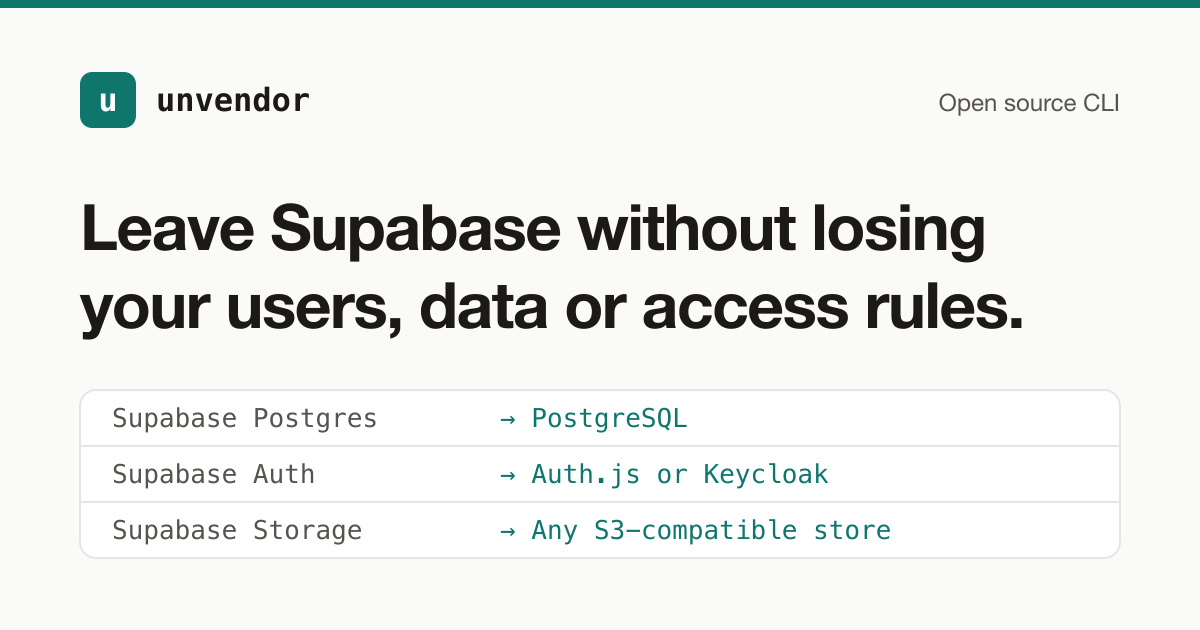
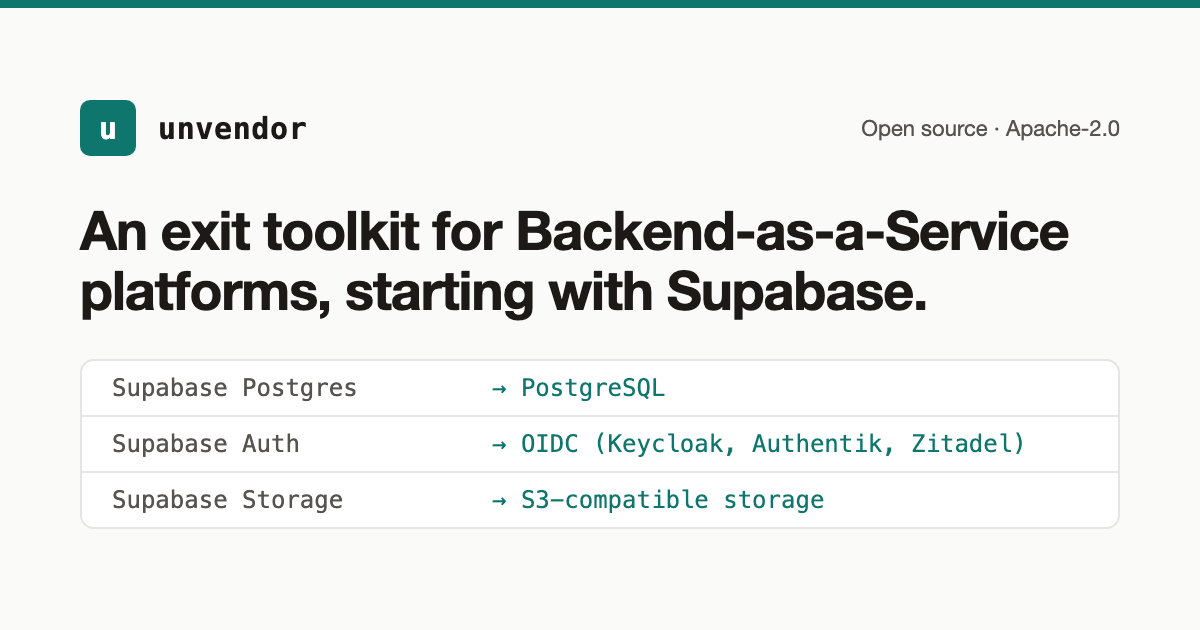
Describe Unvendor as an exit toolkit for backend platforms, starting with Supabase

diff --git a/README.md b/README.md
@@ -1,70 +1,83 @@
 # Unvendor
 
-**Leave your Backend-as-a-Service without losing your users, data or access rules.**
+**An exit toolkit for Backend-as-a-Service platforms, starting with Supabase.**
 
-Unvendor is an open source CLI that moves a [Supabase](https://supabase.com) project to:
+Unvendor is an open source toolkit for converting a Backend-as-a-Service deployment into standard, self-hostable components: plain PostgreSQL, OIDC-based auth and S3-compatible storage. The goal is to do this without a full rewrite of the app. Supabase is the first source platform and the reference implementation; others are planned through a source adapter interface.
 
-- PostgreSQL
-- Auth.js or Keycloak for auth
-- any S3-compatible store (MinIO, Garage, ...) for files
-
-> Early development, nothing works yet. See the [roadmap](#roadmap).
+> **Status: early development.** No component is usable yet. See [What it does](#what-it-does) and the [roadmap](#roadmap).
 
 ## Why
 
-Getting into Supabase is easy, getting out is not:
+Backend-as-a-Service platforms (Supabase, Firebase, Appwrite, Nhost, PocketBase) bundle database, auth, storage and functions behind platform-specific APIs. Apps built on them become hard to self-host, migrate or audit, even when parts of the platform are open source.
+
+On Supabase, for example:
 
 - RLS policies call `auth.uid()`, `auth.jwt()` and `auth.role()`, which only exist in Supabase.
-- Users live in `auth.users`, and your tables reference their IDs.
+- Users live in `auth.users`, and application tables reference their IDs.
 - Storage access rules are database policies. The object store knows nothing about them.
 
-Right now leaving means a dump, some one-off scripts and rewriting access control by hand. Unvendor turns that into something you can run and check.
+Today, leaving means a dump, one-off scripts and rewriting access control by hand. Self-hosting the platform itself changes where it runs, not what the app depends on: you still operate its services and stay on its schemas.
 
-## Why not self-host Supabase?
-
-That changes where Supabase runs, not what you depend on. You still run its services and stay on its schemas. Unvendor is for moving onto plain Postgres, your own identity provider and any S3 store, each replaceable on its own.
+Unvendor is for teams that need to run their backend on infrastructure they control: small teams, NGOs, public bodies, and anyone who needs data sovereignty, GDPR-compliant self-hosting, or protection against pricing or platform changes.
 
 ## What it does
 
-1. **Inventory:** scans the project and lists what has to move.
-2. **Auth:** moves users, identities and bcrypt hashes and keeps the user IDs, so nobody has to reset a password.
-3. **RLS:** rewrites Supabase-specific policies into plain SQL using a small shim schema. Whatever it can't convert goes into the report.
-4. **Storage:** copies buckets and objects and translates the access rules.
-5. **Verify:** compares source and target (row counts, logins, RLS checks that should be denied).
+Each component moves one part of the platform onto a standard replacement that can be swapped independently.
 
-## How it behaves
+| # | Component | Target | Status |
+|---|-----------|--------|--------|
+| 1 | Schema, data and RLS exporter | PostgreSQL | Planned |
+| 2 | Auth migration | OIDC providers (Keycloak, Authentik, Zitadel) | Planned |
+| 3 | Storage export | S3-compatible storage (MinIO, Garage, Ceph) | Planned |
+| 4 | Client compatibility shim | Existing app clients | Planned |
+| 5 | Source adapter interface | Future sources (Firebase, Appwrite, ...) | Planned |
 
-- It never writes to your Supabase project.
-- You can run it against a copy as many times as you want before the real cutover.
-- Every change it makes ends up in the report.
-- Sources are adapters, so Firebase or Appwrite can be added later.
+1. **Schema, data and RLS exporter.** Exports schema and data to plain PostgreSQL. RLS policies that use Supabase-specific functions are rewritten against a small shim schema; anything that can't be converted is listed in the report.
+2. **Auth migration.** Moves users and identities to an OIDC provider, keeping user IDs and existing password hashes where the provider supports it, so users don't have to reset their passwords.
+3. **Storage export.** Copies buckets and objects to any S3-compatible backend and translates the access rules.
+4. **Client compatibility shim.** Lets an existing app keep running against the new components during migration, so client code can be ported step by step instead of all at once.
+5. **Source adapter interface.** Separates platform-specific reading from the rest of the pipeline, so other platforms can be added as sources.
+
+### Design rules
+
+These apply to every component as it is built:
+
+- Never write to the source project.
+- Can be run against a copy any number of times before the real cutover.
+- Every change made to the target is recorded in a report.
+- Anything that can't be converted automatically goes into the report instead of being skipped.
+- Every RLS rewrite has a negative test proving that forbidden rows stay hidden.
+
+### What exists today
+
+- A Supabase test fixture in [`fixtures/supabase/`](fixtures/supabase/): tables with RLS policies that call `auth.uid()`, `auth.jwt()` and `auth.role()`, storage buckets with per-user folder policies, and a seed script. It is the source project used to develop and test the components above.
+- The project website in [`site/`](site/).
+
+## Quick start
+
+There is no runnable CLI yet. To set up the test fixture against a hosted Supabase project, see [`fixtures/supabase/README.md`](fixtures/supabase/README.md).
 
 ## Roadmap
 
-- [ ] M1: Inventory CLI
-- [ ] M2: Auth migration (Auth.js, Keycloak)
-- [ ] M3: RLS translation
-- [ ] M4: Storage migration
-- [ ] M5: Verification, docs, packaging
-
-## Usage
-
-Not implemented yet. Roughly the plan:
-
-```bash
-npx unvendor inventory --source "$SUPABASE_DB_URL"
-npx unvendor migrate auth --target keycloak
-npx unvendor verify
-```
+- [ ] M1: Schema, data and RLS exporter → PostgreSQL
+- [ ] M2: Auth migration → OIDC providers (Keycloak, Authentik, Zitadel)
+- [ ] M3: Storage export → S3-compatible storage (MinIO, Garage, Ceph)
+- [ ] M4: Client compatibility shim
+- [ ] M5: Source adapter interface (Firebase, Appwrite and others later)
 
 ## Contributing
 
-If you've moved off Supabase, or tried and gave up, open an issue and describe what broke.
+If you've moved off a Backend-as-a-Service platform, or tried and gave up, open an issue and describe what broke. Real migration cases shape the roadmap and the test suite.
 
-To test against a real project, see `fixtures/supabase/`.
+The project is written in TypeScript. See [CONTRIBUTING.md](CONTRIBUTING.md) for details.
 
 ## License
 
-Apache-2.0. See `LICENSE`.
+Apache-2.0. See [LICENSE](LICENSE).
 
-Unvendor is not affiliated with or endorsed by Supabase.
+Unvendor is not affiliated with or endorsed by Supabase or any other platform mentioned here.
+
+## Mirrors
+
+- GitHub: [github.com/djokobozinov/unvendor](https://github.com/djokobozinov/unvendor)
+- Codeberg: [codeberg.org/gjokob/unvendor](https://codeberg.org/gjokob/unvendor)

diff --git a/CONTRIBUTING.md b/CONTRIBUTING.md
@@ -1,41 +1,49 @@
 # Contributing to Unvendor
 
-Thanks for your interest. Unvendor is in early development and nothing works yet, so the most useful contributions right now are real-world migration stories and test cases.
+Thanks for your interest. Unvendor is in early development and no component is usable yet, so the most useful contributions right now are real-world migration stories and test cases.
 
 ## Share what broke
 
-If you've moved off Supabase, or tried and gave up, open an issue and describe:
+If you've moved off a Backend-as-a-Service platform (Supabase, Firebase, Appwrite, Nhost, PocketBase, ...), or tried and gave up, open an issue and describe:
 
-- What you were migrating (auth, RLS policies, storage, functions, ...).
-- Where you were moving to (plain PostgreSQL, Auth.js, Keycloak, MinIO, Garage, something else).
+- What you were migrating (database and RLS policies, auth, storage, functions, ...).
+- Where you were moving to (plain PostgreSQL, an OIDC provider such as Keycloak, Authentik or Zitadel, S3-compatible storage such as MinIO, Garage or Ceph, something else).
 - What broke, what you had to do by hand, and any scripts you wrote.
 
 Links to public discussions, blog posts or repos are welcome. These shape the roadmap and the test suite.
 
 ## Test cases
 
-A migration tool is only as good as the cases it is checked against. Useful contributions:
+A migration tool is only as good as the cases it is checked against. Supabase is the first source platform, so Supabase cases are the most useful right now:
 
 - RLS policies that use `auth.uid()`, `auth.jwt()` or `auth.role()` in ways you suspect are hard to translate.
 - Auth setups with OAuth identities, unconfirmed emails or MFA factors.
 - Storage bucket policies that depend on database state.
+- Client code that relies on `supabase-js` behaviour, which the compatibility shim would need to cover.
 
 Strip anything private before sharing. A minimal SQL snippet that reproduces the shape of the problem is enough.
 
+The Supabase test fixture in [`fixtures/supabase/`](fixtures/supabase/) is the source project used during development. Cases that fit its shape can be added to it.
+
 ## Code
 
-The project is TypeScript, distributed via `npx`, licensed under Apache-2.0. Before starting a larger change, open an issue so we can agree on the approach. Keep pull requests focused on one thing.
+The project is written in TypeScript and licensed under Apache-2.0. Before starting a larger change, open an issue so we can agree on the approach. Keep pull requests focused on one thing.
 
 Rules the tool must follow, and that every change must respect:
 
-- Never write to the source Supabase project.
+- Never write to the source project.
 - Every change made to the target must be recorded in the report.
 - Anything that cannot be converted automatically goes into the report instead of being silently skipped.
 - Every RLS rewrite needs a negative test proving that forbidden rows stay hidden.
+- Platform-specific code belongs behind the source adapter interface, so other platforms can be added later.
 
 ## Roadmap
 
-Work is organised by milestone. See the roadmap in [README.md](README.md) and the corresponding issues for M1 to M5.
+Work is organised in milestones M1 to M5, one per component. See the [roadmap in README.md](README.md#roadmap).
+
+## Mirrors
+
+The project is on [GitHub](https://github.com/djokobozinov/unvendor) and [Codeberg](https://codeberg.org/gjokob/unvendor). Issues and pull requests are welcome on either.
 
 ## License
 
